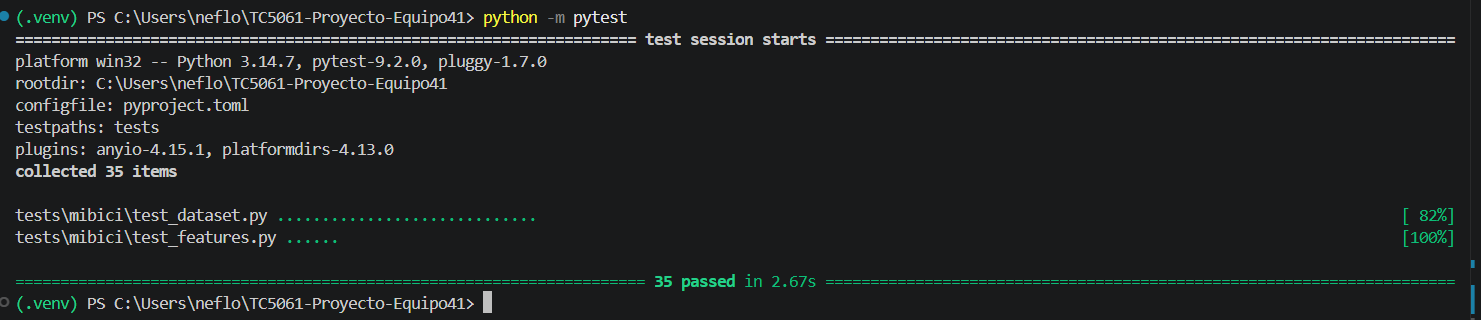
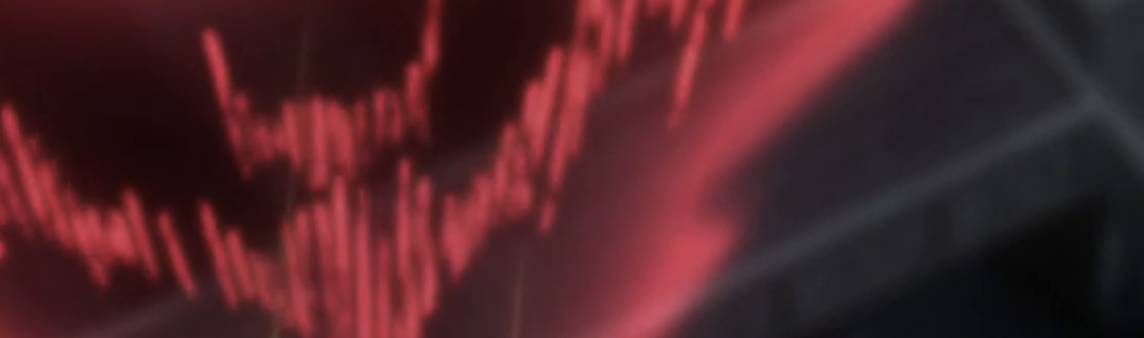
docs(readme): documentar pruebas, validación y seguridad con evidencia

diff --git a/README.md b/README.md
@@ -174,34 +174,87 @@ DATA_METADATA = {
 
 3. Ejecuta `dataset.py` para que se generen los datos procesados en `/data/interim`, observa los ejemplos propuestos en `dataset.py` y ajusta de ser necesario.
 
-## Pruebas y validaciones
+## Pruebas, validación de datos y seguridad
 
-### PyTest
+Todo se ejecuta desde la raíz del repositorio con el entorno del proyecto activado (Python 3.14,
+`pip install -r requirements.txt`). Las pruebas no usan los datos reales ni el servidor de
+MLflow: trabajan con datos sintéticos y un tracking temporal (`tests/conftest.py`).
 
-```bash
-python -m pytest
+| Comando | Qué hace | Requiere |
+|---|---|---|
+| `make test` | PyTest: pruebas unitarias, reproducibilidad del entrenamiento e higiene del repo | Entorno del proyecto |
+| `make security` | bandit (código), pip-audit (dependencias) y detect-secrets (credenciales) | Entorno del proyecto + internet (pip-audit) |
+| `make validation-env` | Crea el entorno de validación (Python 3.12) en `~/.venvs/mibici-validation` | [uv](https://docs.astral.sh/uv/), una sola vez |
+| `make validate` | DeepChecks sobre los datos de P1, P2 y P3; reportes en `reports/validation/` | Datos en `data/raw/` + entorno de validación |
+| `make check` | Los tres anteriores en orden | Todo lo anterior |
+
+Sin `make`: `python -m pytest`; los comandos de seguridad y validación están en el `Makefile`.
+
+### Pruebas (PyTest)
+
+```
+tests/
+├── conftest.py                      # datos sintéticos y MLflow temporal
+├── mibici/test_dataset.py           # ingesta, manifiesto, hash y data_version
+├── mibici/test_features.py          # limpieza y variables comunes
+├── modeling/test_reproducibility.py # reproducibilidad de P1, P2 y P3
+└── test_repo_hygiene.py             # seguridad del repositorio como pruebas
 ```
 
-Resultado: **35 pruebas aprobadas**.
-![Ejecución de PyTest](reports/Evidence/pytest_execution.png)
+- **Unitarias**: casos normales y límite de la ingesta (`clean_trips`, `join_station_metadata`,
+  `build_manifest`, `compute_data_version`…) y de `features.py` (fechas inválidas, duraciones
+  negativas, duplicados y nulos).
+- **Reproducibilidad**: cada pregunta entrena dos veces con la misma semilla y exige
+  resultados idénticos — predicciones de Ridge, Random Forest y HistGradientBoosting (P1),
+  probabilidades y métricas de la regresión logística (P2), etiquetas y silhouette de K-Means
+  (P3). Dos pruebas de control cambian la semilla y verifican que la diferencia sí se detecta.
+- **Higiene del repositorio**: rutas sensibles cubiertas por `.gitignore`, ningún archivo de
+  datos, MLflow, modelos o credenciales versionado hoy **ni en el historial**, `.env.example`
+  sin secretos y detect-secrets sin hallazgos nuevos.
 
-### DeepChecks
+### Validación de datos (DeepChecks)
+
+`mibici/validation/validate_p3_data.py` ejecuta la suite de integridad de DeepChecks (tipos
+mezclados, nulos, duplicados, valores únicos, caracteres especiales, etiquetas en conflicto,
+correlaciones) sobre la tabla de P1, la tabla estación-hora de P2 y las características de
+estaciones de P3.
+
+DeepChecks 0.19.1, su última versión, no es compatible con el stack del proyecto: importa
+`pkg_resources` (ya no incluido en setuptools ≥ 81), usa `np.Inf` (eliminado en numpy 2) y pide
+el scorer `max_error` (eliminado en scikit-learn 1.9). Por eso corre en un **entorno aparte**
+con Python 3.12 y versiones fijas en `requirements-validation.txt`. `make validate`:
+
+1. En el entorno del proyecto, `python -m mibici.validation.prepare_inputs` deja listo el
+   dataset común (`data/interim/`) y `data/processed/p3_station_features.csv`.
+2. En el entorno de validación corre `validate_p3_data.py`, que lee esos archivos y escribe
+   los reportes HTML.
 
 ```bash
-python mibici/validation/validate_p3_data.py
+make validation-env    # una sola vez
+make validate
 ```
 
-Resultado: validación de datos completada correctamente.
-![Ejecución de DeepChecks](reports/Evidence/deepchecks_execution.png)
+### Seguridad
 
-### Bandit
+| Chequeo | Herramienta | Resultado |
+|---|---|---|
+| Código | `bandit -c pyproject.toml -r mibici` | Sin hallazgos. Los 11 avisos previos (llamadas a `git` con `subprocess` en tres copias de la misma función) se corrigieron: una sola función en `tracking.py`, con ruta absoluta a `git` y argumentos fijos; las 2 supresiones `# nosec` restantes están justificadas en el código. |
+| Dependencias | `pip-audit -r requirements.txt` | Sin vulnerabilidades. Se encontró **CVE-2026-53995** (path traversal en FileStore) en mlflow 3.17.0 y se actualizó a 3.17.2. |
+| Dependencias de validación | `pip-audit` sobre `~/.venvs/mibici-validation` | 3 avisos en setuptools 80.9.0 (construcción de sdist y wheels legacy en Windows). **Riesgo aceptado**: DeepChecks necesita `pkg_resources`, que no existe en las versiones corregidas, y el entorno de validación no construye ni instala paquetes de terceros. |
+| Credenciales | `detect-secrets` con `.secrets.baseline` | Sin secretos. La línea base excluye por regla los falsos positivos: hashes SHA-256 del manifiesto, imágenes PNG embebidas en notebooks y reportes HTML de DeepChecks. |
+| Datos y variables de entorno | `.gitignore` + `.env.example` + `tests/test_repo_hygiene.py` | Datos de MiBici, `mlflow.db`, `mlartifacts/`, modelos y `.env` ignorados; ninguno aparece en el historial. Las variables locales van en `.env` (copiar desde `.env.example`). |
 
-```bash
-python -m bandit -c pyproject.toml -r mibici -f html -o reports/security-scan/bandit.html
-```
+### Evidencia
 
-Resultado: análisis de seguridad completado y reporte HTML generado.
-![Ejecución de Bandit](reports/Evidence/bandit_execution.png)
+| Ejecución | Captura |
+|---|---|
+| PyTest | ![PyTest](reports/Evidence/pytest_execution.png) |
+| DeepChecks | ![DeepChecks](reports/Evidence/deepchecks_execution.png) |
+| bandit | ![bandit](reports/Evidence/bandit_execution.png) |
+| pip-audit y detect-secrets | ![Seguridad](reports/Evidence/security_execution.png) |
+| Reproducibilidad | ![Reproducibilidad](reports/Evidence/reproducibility_execution.png) |
+
+Reportes generados: `reports/security-scan/bandit.html` y `reports/validation/*.html`.
 
 ## P3. Agrupamiento de estaciones por patrones de uso
 
